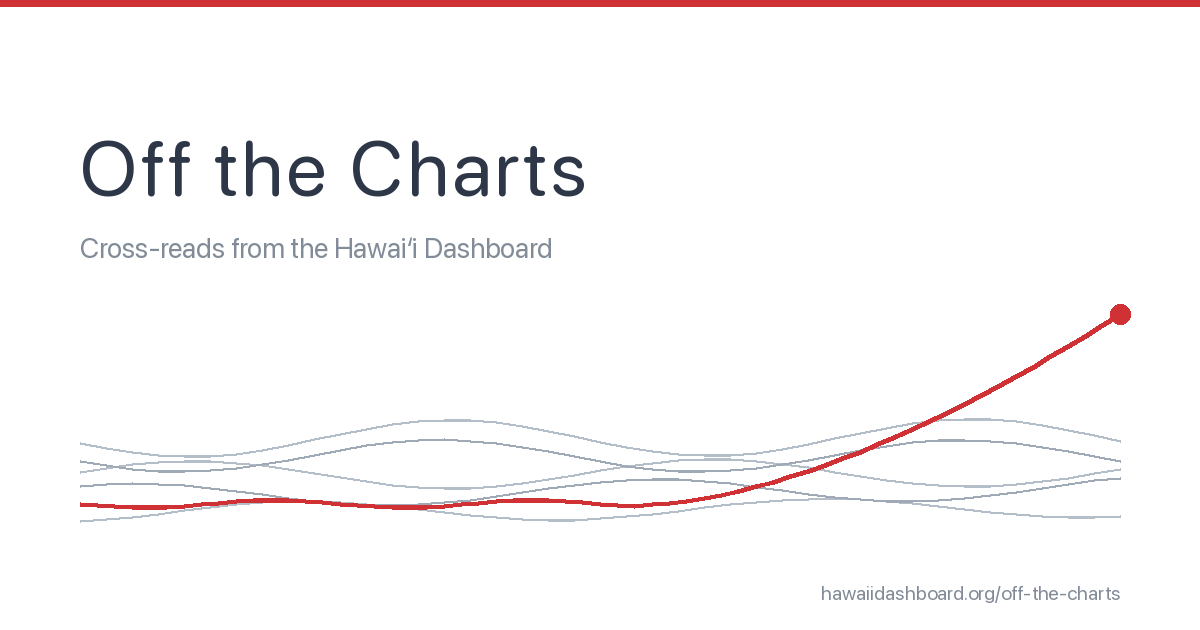
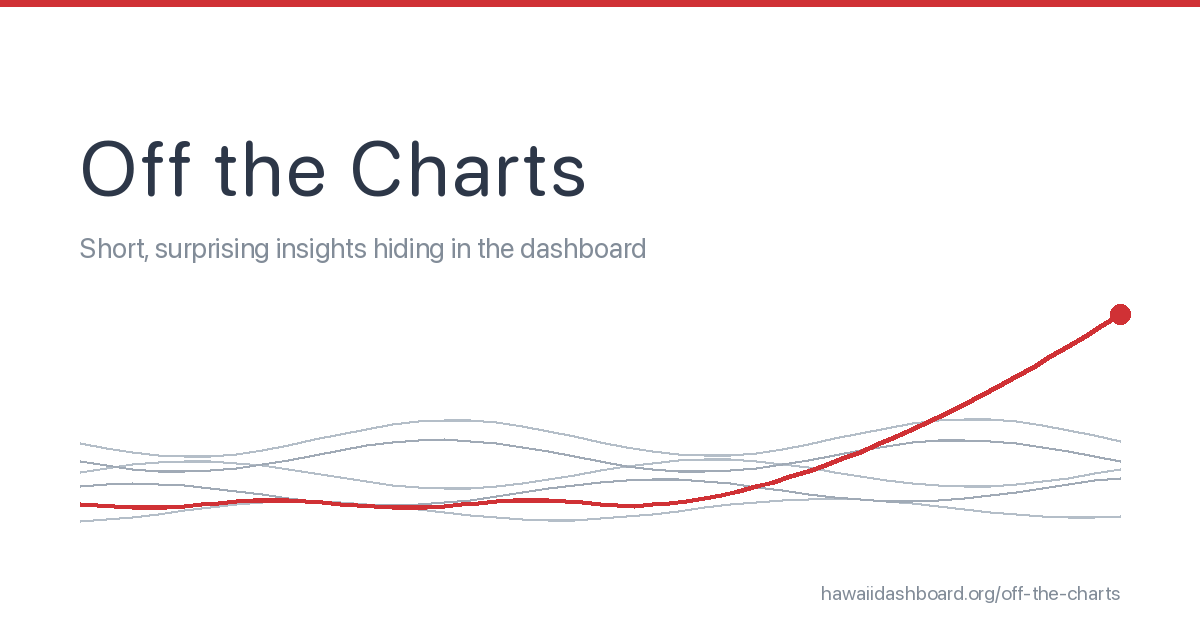
Off the Charts: simpler tagline
"Cross-reads from the Hawaiʻi Dashboard. Short, surprising insights
stitched from multiple metric views." → "Short, surprising insights
hiding in the dashboard." Updated subtitle, three meta descriptions,
JSON-LD description, and the OG card.

Changed region(s): [[0.0617, 0.3619, 0.555, 0.4222]]

diff --git a/off-the-charts/index.html b/off-the-charts/index.html
@@ -4,18 +4,18 @@
     <meta charset="UTF-8">
     <meta name="viewport" content="width=device-width, initial-scale=1.0">
     <title>Off the Charts - Hawai&#x02BB;i Dashboard</title>
-    <meta name="description" content="Cross-reads from the Hawai&#x02BB;i Dashboard: short, surprising insights stitched from multiple metric views.">
+    <meta name="description" content="Short, surprising insights hiding in the dashboard.">
     <meta property="og:type" content="website">
     <meta property="og:url" content="https://hawaiidashboard.org/off-the-charts/">
     <meta property="og:title" content="Off the Charts | Hawai&#x02BB;i Dashboard">
-    <meta property="og:description" content="Cross-reads from the Hawai&#x02BB;i Dashboard: short, surprising insights stitched from multiple metric views.">
+    <meta property="og:description" content="Short, surprising insights hiding in the dashboard.">
     <meta property="og:image" content="https://hawaiidashboard.org/assets/og/off-the-charts.png">
     <meta property="og:image:width" content="1200">
     <meta property="og:image:height" content="630">
     <meta property="og:site_name" content="Hawai&#x02BB;i Dashboard">
     <meta name="twitter:card" content="summary_large_image">
     <meta name="twitter:title" content="Off the Charts | Hawai&#x02BB;i Dashboard">
-    <meta name="twitter:description" content="Cross-reads from the Hawai&#x02BB;i Dashboard: short, surprising insights stitched from multiple metric views.">
+    <meta name="twitter:description" content="Short, surprising insights hiding in the dashboard.">
     <meta name="twitter:image" content="https://hawaiidashboard.org/assets/og/off-the-charts.png">
     <link rel="canonical" href="https://hawaiidashboard.org/off-the-charts/">
 
@@ -41,7 +41,7 @@
       "@type": "Blog",
       "name": "Off the Charts",
       "url": "https://hawaiidashboard.org/off-the-charts/",
-      "description": "Cross-reads from the Hawaiʻi Dashboard data.",
+      "description": "Short, surprising insights hiding in the dashboard.",
       "publisher": {
         "@type": "Organization",
         "name": "Hawaiʻi Dashboard",
@@ -126,7 +126,7 @@
 
     <header class="methods-header">
         <h1>Off the Charts</h1>
-        <p class="methods-subtitle">Cross-reads from the Hawai&#x02BB;i Dashboard. Short, surprising insights stitched from multiple metric views.</p>
+        <p class="methods-subtitle">Short, surprising insights hiding in the dashboard.</p>
     </header>
 
     <section class="otc-archive">

diff --git a/scripts/generate-og-off-the-charts.py b/scripts/generate-og-off-the-charts.py
@@ -60,7 +60,7 @@ meta_font = font(22)
 
 title_x, title_y = 80, 120
 draw.text((title_x, title_y), "Off the Charts", fill=INK, font=title_font)
-draw.text((title_x, title_y + 110), "Cross-reads from the Hawaiʻi Dashboard", fill=MUTED, font=sub_font)
+draw.text((title_x, title_y + 110), "Short, surprising insights hiding in the dashboard", fill=MUTED, font=sub_font)
 
 # --- Trend visualization (bottom half) ---
 # Five baseline trend lines (muted, modest variance) + one outlier
